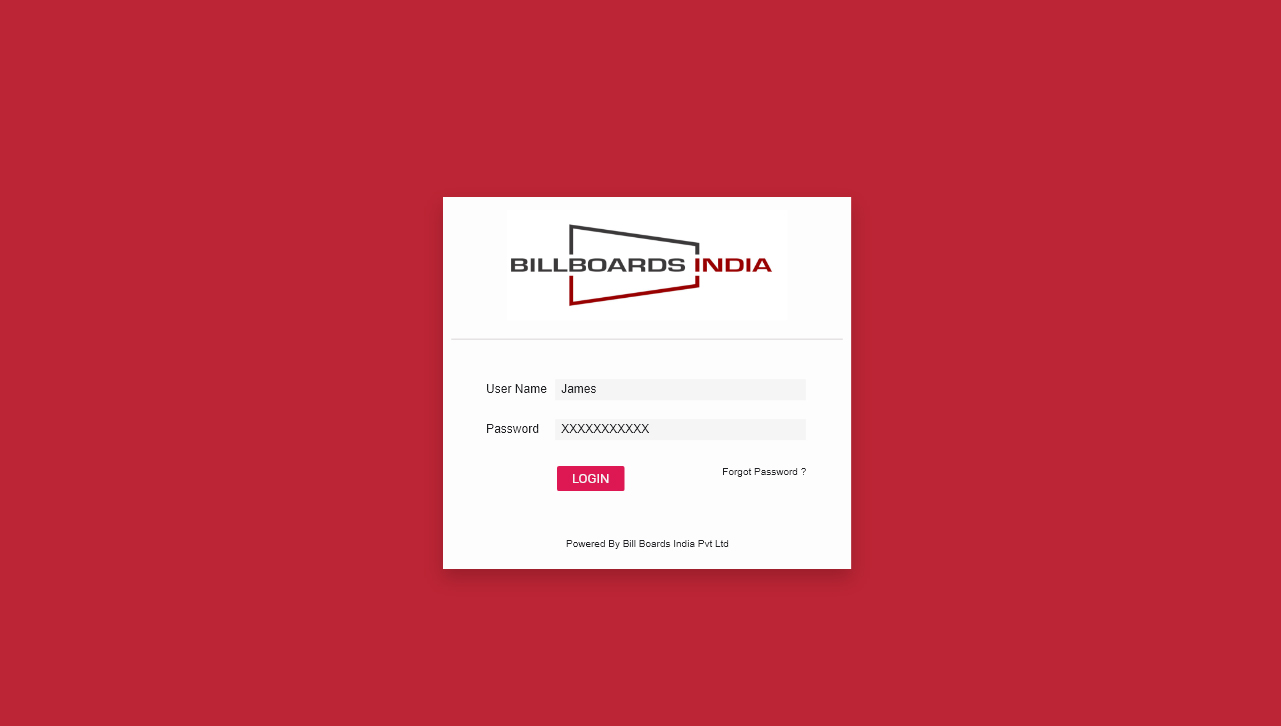
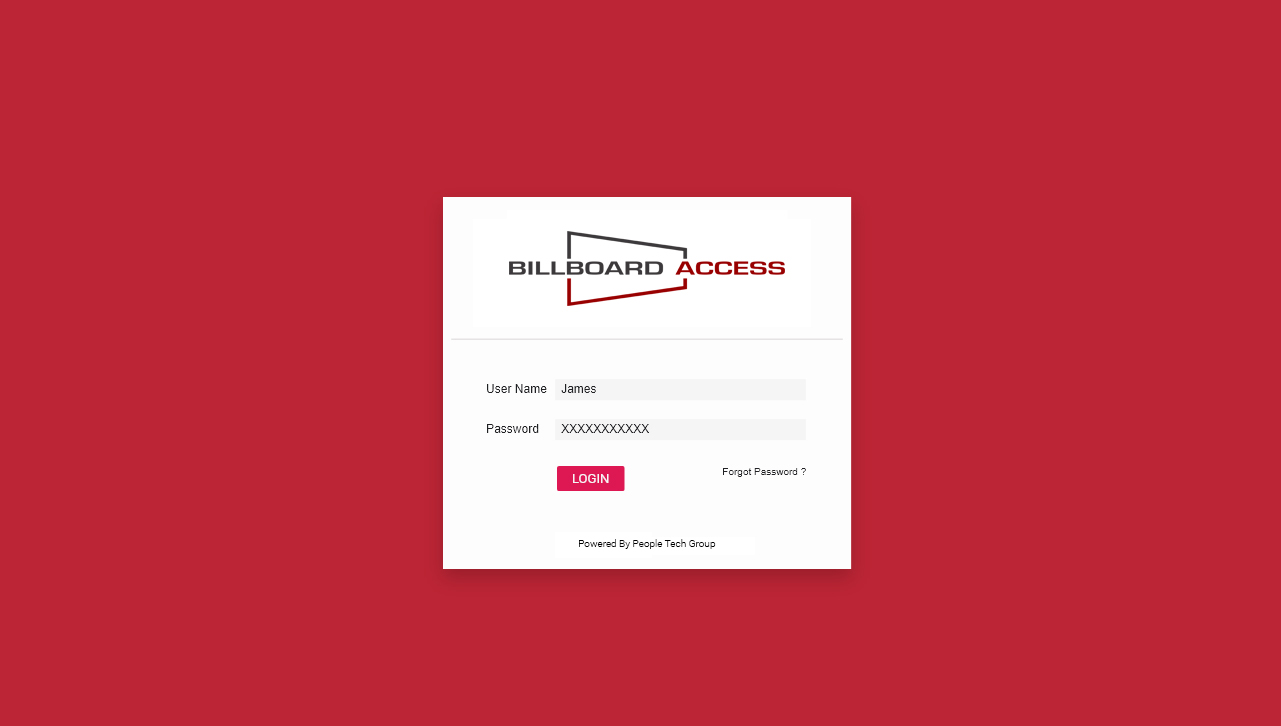
BBA-Changes

Changed region(s): [[0.3747, 0.303, 0.6245, 0.4242], [0.4372, 0.7273, 0.5621, 0.7576]]

diff --git a/app/app/views/home.html b/app/app/views/home.html
@@ -30,7 +30,7 @@
 .demo_slider{
 		width: 74%;
     margin: 0 auto;
-    padding: 36px 2px 0 2px;
+    padding: 52px 2px 0 2px;
 }
 .demo_slider .carousel-control-next,.demo_slider .carousel-control-prev {
 	z-index: 100;
@@ -64,7 +64,7 @@
 			<div class="etc_camapgin_heding">
 				<h3 class="heading_3">Easy to Create</h3>
 				<h3 class="heading_3 mb-md-4 mb-sm-3 mb-3 mb-2 blue">Your OOH Campaigns</h3>
-				<p class="paragraph">Manage your campaigns in the click of a button with our all-round Application which gives control to the client as it should be.
+				<p class="paragraph">Manage your campaigns in the click of a button with our all-round application which gives control to the client as it should be.
 				</p>
 			</div>
 			<div class="etc_camapgin_process">
@@ -110,7 +110,7 @@
 							<div class="item1">
 								<figure class="imghvr-zoom-in"><img class="img-fluid mx-auto d-block img-thumbnail"
 										src="/assets/images/Indiahoarding/airport.png" class="img-fluid" alt="aicte">
-									<a ng-href="#/ourproduct"><figcaption>
+									<a><figcaption>
 										<h3>Airport</h3>
 										<p>Digital Screens and OOH hoardings inside Airports are also a viable form of advertising. Airport’s premium image is reinforced by the top of the line OOH furniture and its digital capabilities. Unrestricted, brands can create custom eye-catching executions with unmissable messaging and flawless delivery that complements consumers’ high expectations and their shopping behavior within this high-value environment.</p>
 										<p class="text-right"><u>Read More</u></p>
@@ -124,7 +124,7 @@
 							<div class="item1">
 								<figure class="imghvr-zoom-in"><img class="img-fluid mx-auto d-block img-thumbnail"
 										src="/assets/images/Indiahoarding/Billboard.png" class="img-fluid" alt="aicte">
-										<a ng-href="#/ourproduct"><figcaption>
+										<a><figcaption>
 										<h3>Billboard</h3>
 										<p>A billboard is a large outdoor advertising structure (a billing board), typically found in high-traffic areas such as alongside busy roads. Billboard present large advertisements to passing pedestrians and drivers. Typically showing witty slogans and distinctive visuals, billboard are highly visible in the top designated market areas.</p>
 										<p class="text-right"><u>Read More</u></p>
@@ -138,7 +138,7 @@
 							<div class="item1">
 								<figure class="imghvr-zoom-in"><img class="img-fluid mx-auto d-block img-thumbnail"
 										src="/assets/images/Indiahoarding/bus_shilter.png" class="img-fluid" alt="aicte">
-										<a ng-href="#/ourproduct"><figcaption>
+										<a><figcaption>
 										<h3>Bus Shelters</h3>
 										<p>Bus Shelter Ads afford eye-level contact to pedestrians and vehicular traffic. A bus stop is a designated place where buses stop for passengers to board or alight from a bus. They are an active medium for point-of-engagement. Bus shelter Front and side panels present neat showcases for advertising, erected two sides in a glass, backlit frames.</p>
 										<p class="text-right"><u>Read More</u></p>
@@ -152,7 +152,7 @@
 							<div class="item1">
 								<figure class="imghvr-zoom-in"><img class="img-fluid mx-auto d-block img-thumbnail"
 										src="/assets/images/Indiahoarding/metro.png" class="img-fluid" alt="aicte">
-										<a ng-href="#/ourproduct"><figcaption>
+										<a><figcaption>
 										<h3>Metro</h3>
 										<p>In addition to Advertisements, Billboard Access curates "Metro-Maza" on the Digital Screens, a unique experience for the Metro Consumers which exponentially increases engagement and eyeball count for the advertising brands. Our ultimate aim has always been – and will always be – to touch the lives of people in a positive way.</p>
 										<p class="text-right"><u>Read More</u></p>
@@ -166,7 +166,7 @@
 							<div class="item1">
 								<figure class="imghvr-zoom-in"><img class="img-fluid mx-auto d-block img-thumbnail"
 										src="/assets/images/Indiahoarding/digital.png" class="img-fluid" alt="aicte">
-										<a ng-href="#/ourproduct"><figcaption>
+										<a><figcaption>
 										<h3>Digital</h3>
 										<p>Digital out-of-home (DOOH) refers to dynamic media distributed across place-based networks in venues including, but not limited to: cafes, bars, restaurants, health clubs, colleges, arenas, gas stations, convenience stores, barber shops, and public spaces. DOOH can be defined by two major platforms, digital place-based networks (DPN) and digital billboard & signage (DBB); DOOH networks typically feature independently addressable screens, kiosks, jukeboxes and/or jumbotrons.</p>
 										<p class="text-right"><u>Read More</u></p>
@@ -180,7 +180,7 @@
 							<div class="item1">
 								<figure class="imghvr-zoom-in"><img class="img-fluid mx-auto d-block img-thumbnail"
 										src="/assets/images/Indiahoarding/transit.png" class="img-fluid" alt="aicte">
-										<a ng-href="#/ourproduct"><figcaption>
+										<a><figcaption>
 										<h3>Transit</h3>
 										<p>Transit advertising is advertising placed in or on modes of public transportation or in public transportation areas. Using this method of advertising, ads can be placed anywhere from on the sides of buses, trains, and taxis, to inside subway cars, inside bus stations and near train or bus platforms. The main purpose of transit advertising is to reach riders and acquaint them with your brand.</p>
 										<p class="text-right"><u>Read More</u></p>
@@ -243,7 +243,8 @@
 			<h3 class="heading_3 title1">We Make Outdoor</h3>
 			<h3 class="heading_3 title1 mb-md-4 mb-sm-3 mb-3 mb-2 blue">Advertising Easy</h3>
 			<div class="">
-				<p class="paragraph">Billboard Access have a plethora of advertising mediums to choose from to target your specific audience, engagement, and eyeball count. Save and Track your campaigns with customized options to shortlist, check availability and modify campaigns on-the-fly.</p>
+				<p class="paragraph">Under “We make outdoor advertising easy” the text needs to read:</p>
+				<p class="paragraph">Billboard Access has a plethora of advertising mediums to choose from in order to target your specific audience and increase engagement. Save and track your campaigns with customized options such as create a shortlist, check availability, and modify campaigns on-the-fly.</p>
 			</div>
 			<div class="text-center py-lg-5 py-md-4 py-sm-4 py-3">
 				<a href="#bottom" style="color: #fff;"><button type="button" class="btn  service_btn">CONTACT</button></a>

diff --git a/app/app/views/about_bbi.html b/app/app/views/about_bbi.html
@@ -1,11 +1,10 @@
 <div class="bbi__about contbg">
     <section class="product_sec">
         <div class="user_container py-lg-5 py-md-4 py-sm-4 py-3">
-            <h3 class="title mb-5 heading_3"><b class="first_word"><span class="first_letter">A</span>bout BBI</b></h3>
+            <h3 class="title mb-5 heading_3"><b class="first_word"><span class="first_letter">A</span>bout BBA</b></h3>
             <div class="">
-                <p class="paragraph _para">Billboards India, since its inception in 2017 has taken huge strides in revolutionizing the advertising industry in India. Our activities span Out of Home Advertising (OOH) including Billboards, Unipoles, Bus Shelter etc., to Digital Mediums in Transit like India's first Digital Screens inside Hyderabad Metro Trains. Billboards India is the official partner of L&T Hyderabad Metro for this one-of-a-kind digital medium and boasts clientele across Hyderabad.</p>
-                <p class="paragraph _para">As Billboards India sets sights on even more ambitious goals, we remain inspired and guided by the story and philosophy of our CEO,<br> Mr. Chanikya Varma who followed his dream to change India's advertising climate using technology. An all-around Application for easy management of OOH campaigns and technologically ahead-of-the-curve Metro Screen mediums make sure that Billboards India fully automates the process and gives control to the client as it should be.</p>
-                <p class="paragraph _para">Our ultimate aim has always been – and will always be – to touch the lives of people in a positive way.</p>
+                <p class="paragraph _para">BBA is a marketplace that allows users to offer, sell and buy just about any Out of Home Media in a variety of pricing formats and locations. The actual contract for sale is directly between the seller and buyer. BBA is not a traditional auctioneer.</p>
+                <p class="paragraph _para">Any guidance we provide as part of our Services, such as pricing, packaging, listing, and sourcing is solely informational and you may decide to follow it or not. Also, while we may help facilitate the resolution of disputes through various programs, BBA has no control over and does not guarantee: the existence, quality, safety or legality of items advertised; the truth or accuracy of users' content or listings; the ability of sellers to sell items; the ability of buyers to pay for items; or that a buyer or seller will actually complete a transaction or return media.</p>
             </div>
             <h5 class="mt-5 mb-2 heading_3"><b style="color:#BC2535;">Goal:</b></h5>
             <div class="">

diff --git a/app/app/layouts/default.html b/app/app/layouts/default.html
@@ -171,7 +171,7 @@
     <!-- Footer Section -->
     <footer class="footer_home py-lg-4 py-md-3 py-sm-3 py-3 contbg" ng-if="!footerhide">
         <div class="py-lg-4 py-md-3 py-sm-3 py-3 footer">
-            <div class="container py-lg-5 py-md-5 py-sm-4 py-3">
+            <div class="user_container py-lg-5 py-md-5 py-sm-4 py-3">
                 <div class="row">
                     <div class="col-lg-6 col-md-6 col-sm-12">
                         <h3 class="title mb-3 heading_3"><b class="first_word"><span class="first_letter">C</span>ontact
@@ -241,7 +241,7 @@
                     </div>
                 </div>
             </div>
-            <div class="container py-lg-3 py-md-3 py-sm-3 py-3">
+            <div class="user_container py-lg-3 py-md-3 py-sm-3 py-3">
                 <div class="row py-2">
                     <div class="col-md-7 col-lg-7 col-sm-12 col-12">
                         <div class="row">

diff --git a/app/app/views/Map-ListView.html b/app/app/views/Map-ListView.html
@@ -431,13 +431,13 @@
       <!-- sidenav  -->
     </div>
     <!-- map html start (left side controls) ends -->
-    <div layout="column" style="top:auto;position:absolute;bottom:15px;right:3%;">
+    <!-- <div layout="column" style="top:auto;position:absolute;bottom:15px;right:3%;">
       <div layout="row" layout-align="end center" hide-xs>
         <md-button class="md-raised remm-btn all_button" ng-click="toggleTraffic()" id="traffic-toggle">
           <span ng-show="!trafficOn">Show</span>
           <span ng-show="trafficOn">Hide</span> Live Impression</md-button>
       </div>
-    </div>
+    </div> -->
   
   </div>
   

diff --git a/app/app/views/map-home.html b/app/app/views/map-home.html
@@ -648,13 +648,13 @@
       <!-- sidenav  -->
     </div>
     <!-- map html start (left side controls) ends -->
-    <div layout="column" style="top:auto;position:absolute;bottom:15px;right:3%;">
+    <!-- <div layout="column" style="top:auto;position:absolute;bottom:15px;right:3%;">
       <div layout="row" layout-align="end center" hide-xs>
         <md-button class="md-raised remm-btn all_button" ng-click="toggleTraffic()" id="traffic-toggle">
           <span ng-show="!trafficOn">Show</span>
           <span ng-show="trafficOn">Hide</span> Live Impression</md-button>
       </div>
-    </div>
+    </div> -->
   
   </div>
   

diff --git a/app/app/views/sign-in.html b/app/app/views/sign-in.html
@@ -45,7 +45,7 @@
             </div>
           </div>
           <hr class="my-4">
-          <p class="text-center power_by">Powered by BBI Advertising Pvt Ltd</p>
+          <p class="text-center power_by">Powered by PeopleTech Group</p>
         </form>
       </div>
     </div>
@@ -72,7 +72,7 @@
                   </div>
               </div>
               <hr class="my-4">
-              <p class="text-center power_by"><b>Powered by BBI Advertising Pvt Ltd</b></p>
+              <p class="text-center power_by"><b>Powered by PeopleTech Group</b></p>
           </form>
         </div>
       </div>

diff --git a/app/app/index.html b/app/app/index.html
@@ -6,7 +6,7 @@
     <meta charset="utf-8">
     <meta http-equiv="X-UA-Compatible" content="IE=edge,chrome=1">
     <meta name="viewport" content="width=device-width,initial-scale=1.0,user-scalable=no">
-    <title>Billboards America | Outdoor advertising media specialists in USA</title>
+    <title>Billboards Access</title>
     <!-- coustm fonts-->
     <link rel="stylesheet"
         href="https://fonts.googleapis.com/css?family=Roboto:100,200,300,400,500,600,700,800,900,300i,400i">

diff --git a/app/app/layouts/agency.html b/app/app/layouts/agency.html
@@ -140,7 +140,7 @@
         </md-sidenav>
         <ui-view class="main_view" flex></ui-view>
         <div layout="column" layout-align="center center" style="position:absolute; bottom: 0px;width: 100%;background: #CCC">
-            <div style="padding: 5px 0;">Powered by BBI Advertising Pvt Ltd</div>
+            <div style="padding: 5px 0;">Powered by PeopleTech Group</div>
         </div>
     </div>
 </div>

diff --git a/app/app/layouts/owner.html b/app/app/layouts/owner.html
@@ -193,7 +193,7 @@
         </md-sidenav>
         <ui-view class="main_view" flex></ui-view>
         <div layout="column" layout-align="center center" style="position:absolute; bottom: 0px;width: 100%;background: #CCC">
-            <div style="padding: 5px 0;">Powered by BBI Advertising Pvt Ltd</div>
+            <div style="padding: 5px 0;">Powered by PeopleTech Group</div>
         </div>
     </div>
 </div>

diff --git a/app/app/layouts/admin.html b/app/app/layouts/admin.html
@@ -270,7 +270,7 @@
     <!-- //main content -->
     <!-- footer content -->
     <div layout="column" layout-align="center center" style="position:absolute; bottom: 0px;width: 100%;background: #CCC">
-      <div style="padding: 5px 0;">Powered by BBI Advertising Pvt Ltd</div>
+      <div style="padding: 5px 0;">Powered by PeopleTech Group</div>
     </div>
     <!-- //footer content -->
   </div>

diff --git a/app/app/layouts/includes/admin_header.html b/app/app/layouts/includes/admin_header.html
@@ -605,7 +605,7 @@
     </md-sidenav>
     <ui-view class="main_view" flex></ui-view>
     <div layout="column" layout-align="center center" style="position:absolute; bottom: 0px;width: 100%;background: #CCC">
-      <div style="padding: 5px 0;">Powered by BBI Advertising Pvt Ltd</div>
+      <div style="padding: 5px 0;">Powered by PeopleTech Group</div>
     </div>
   </div>
 </div>
